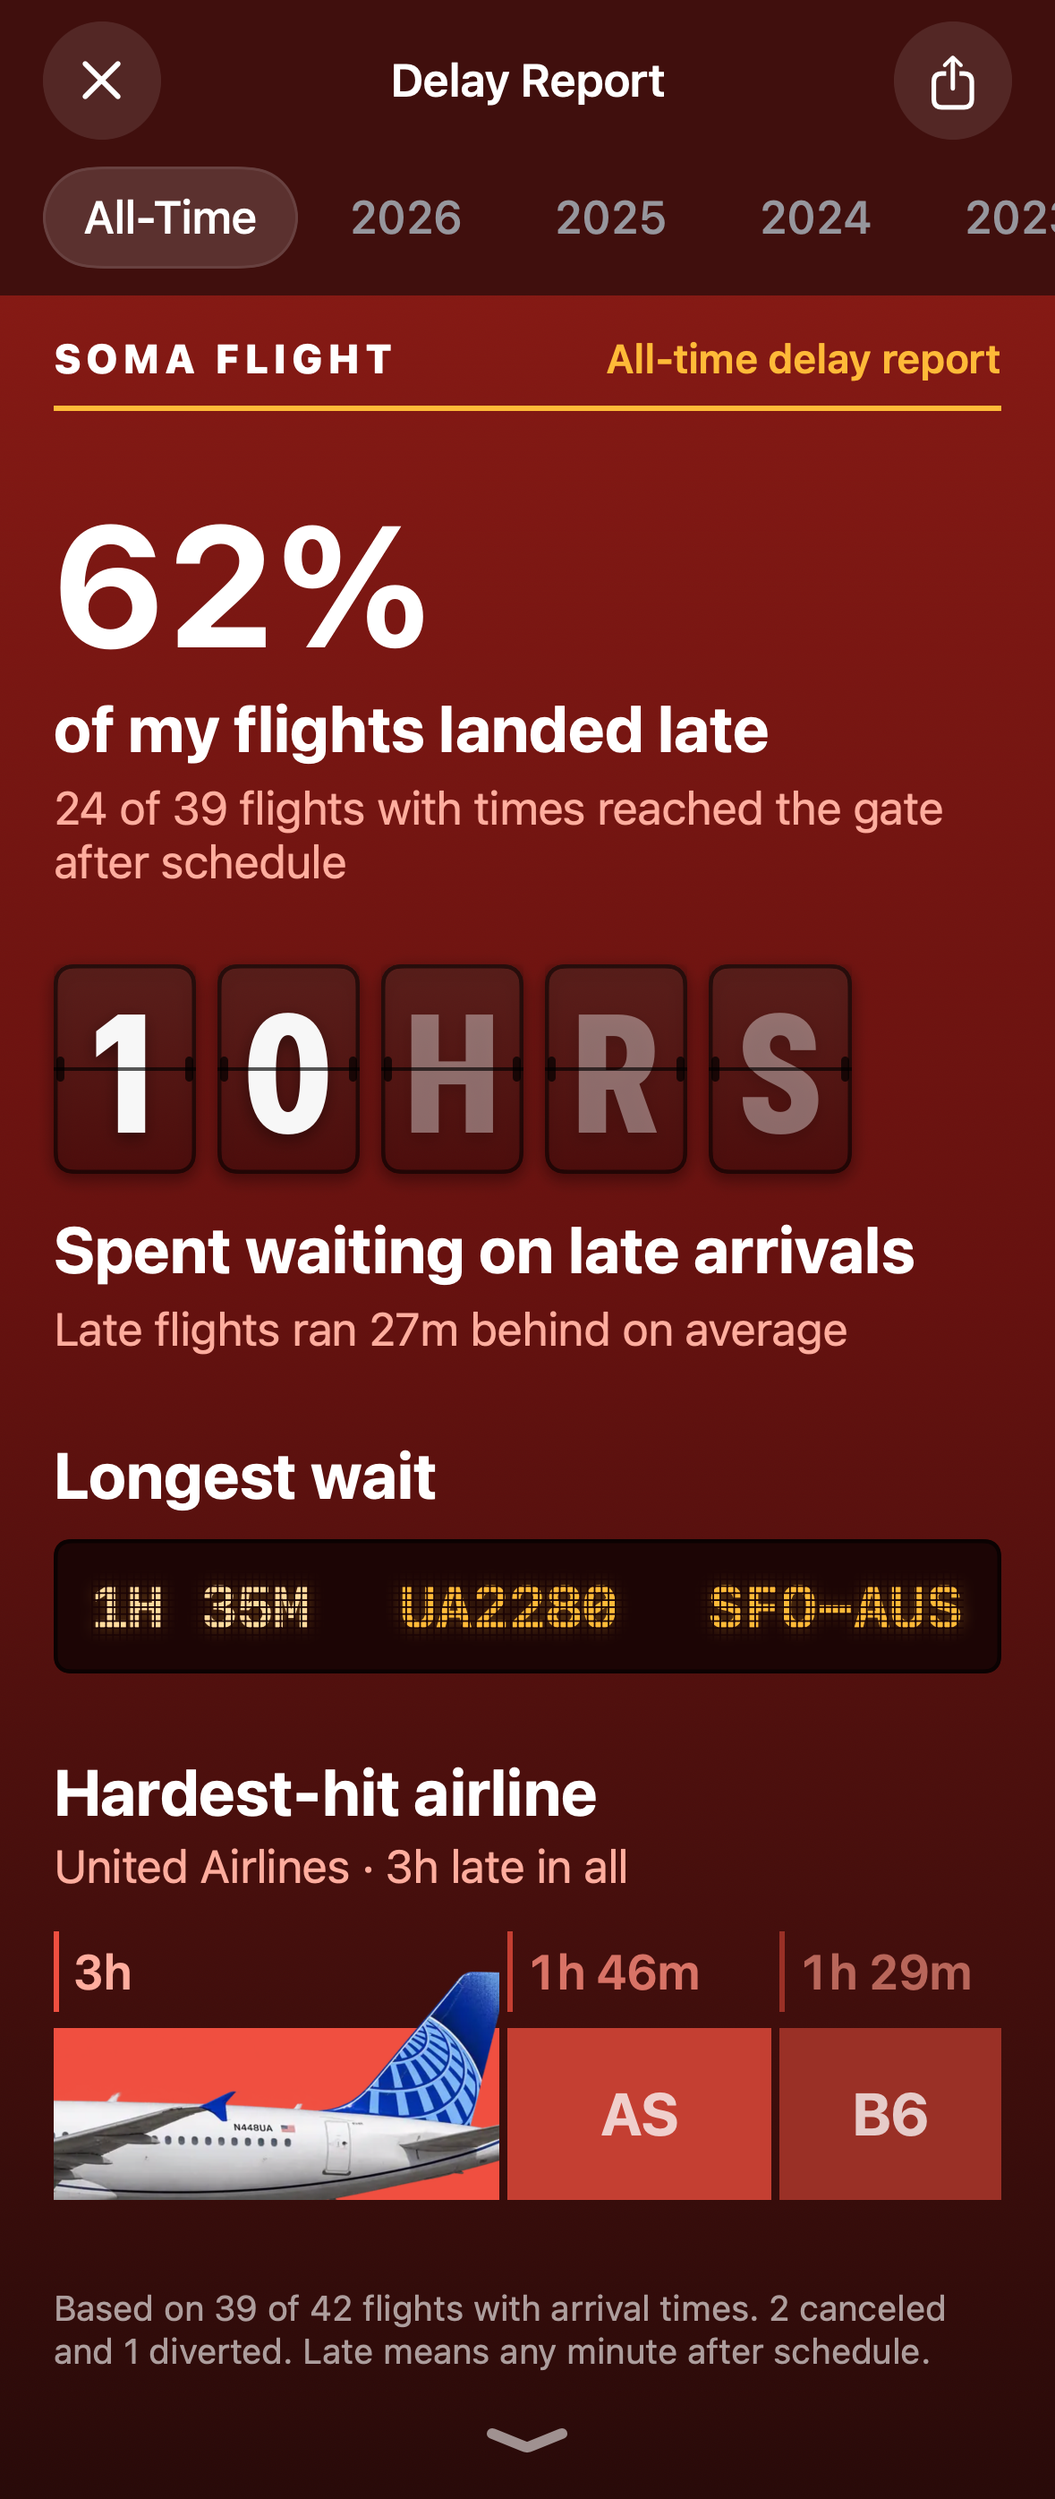
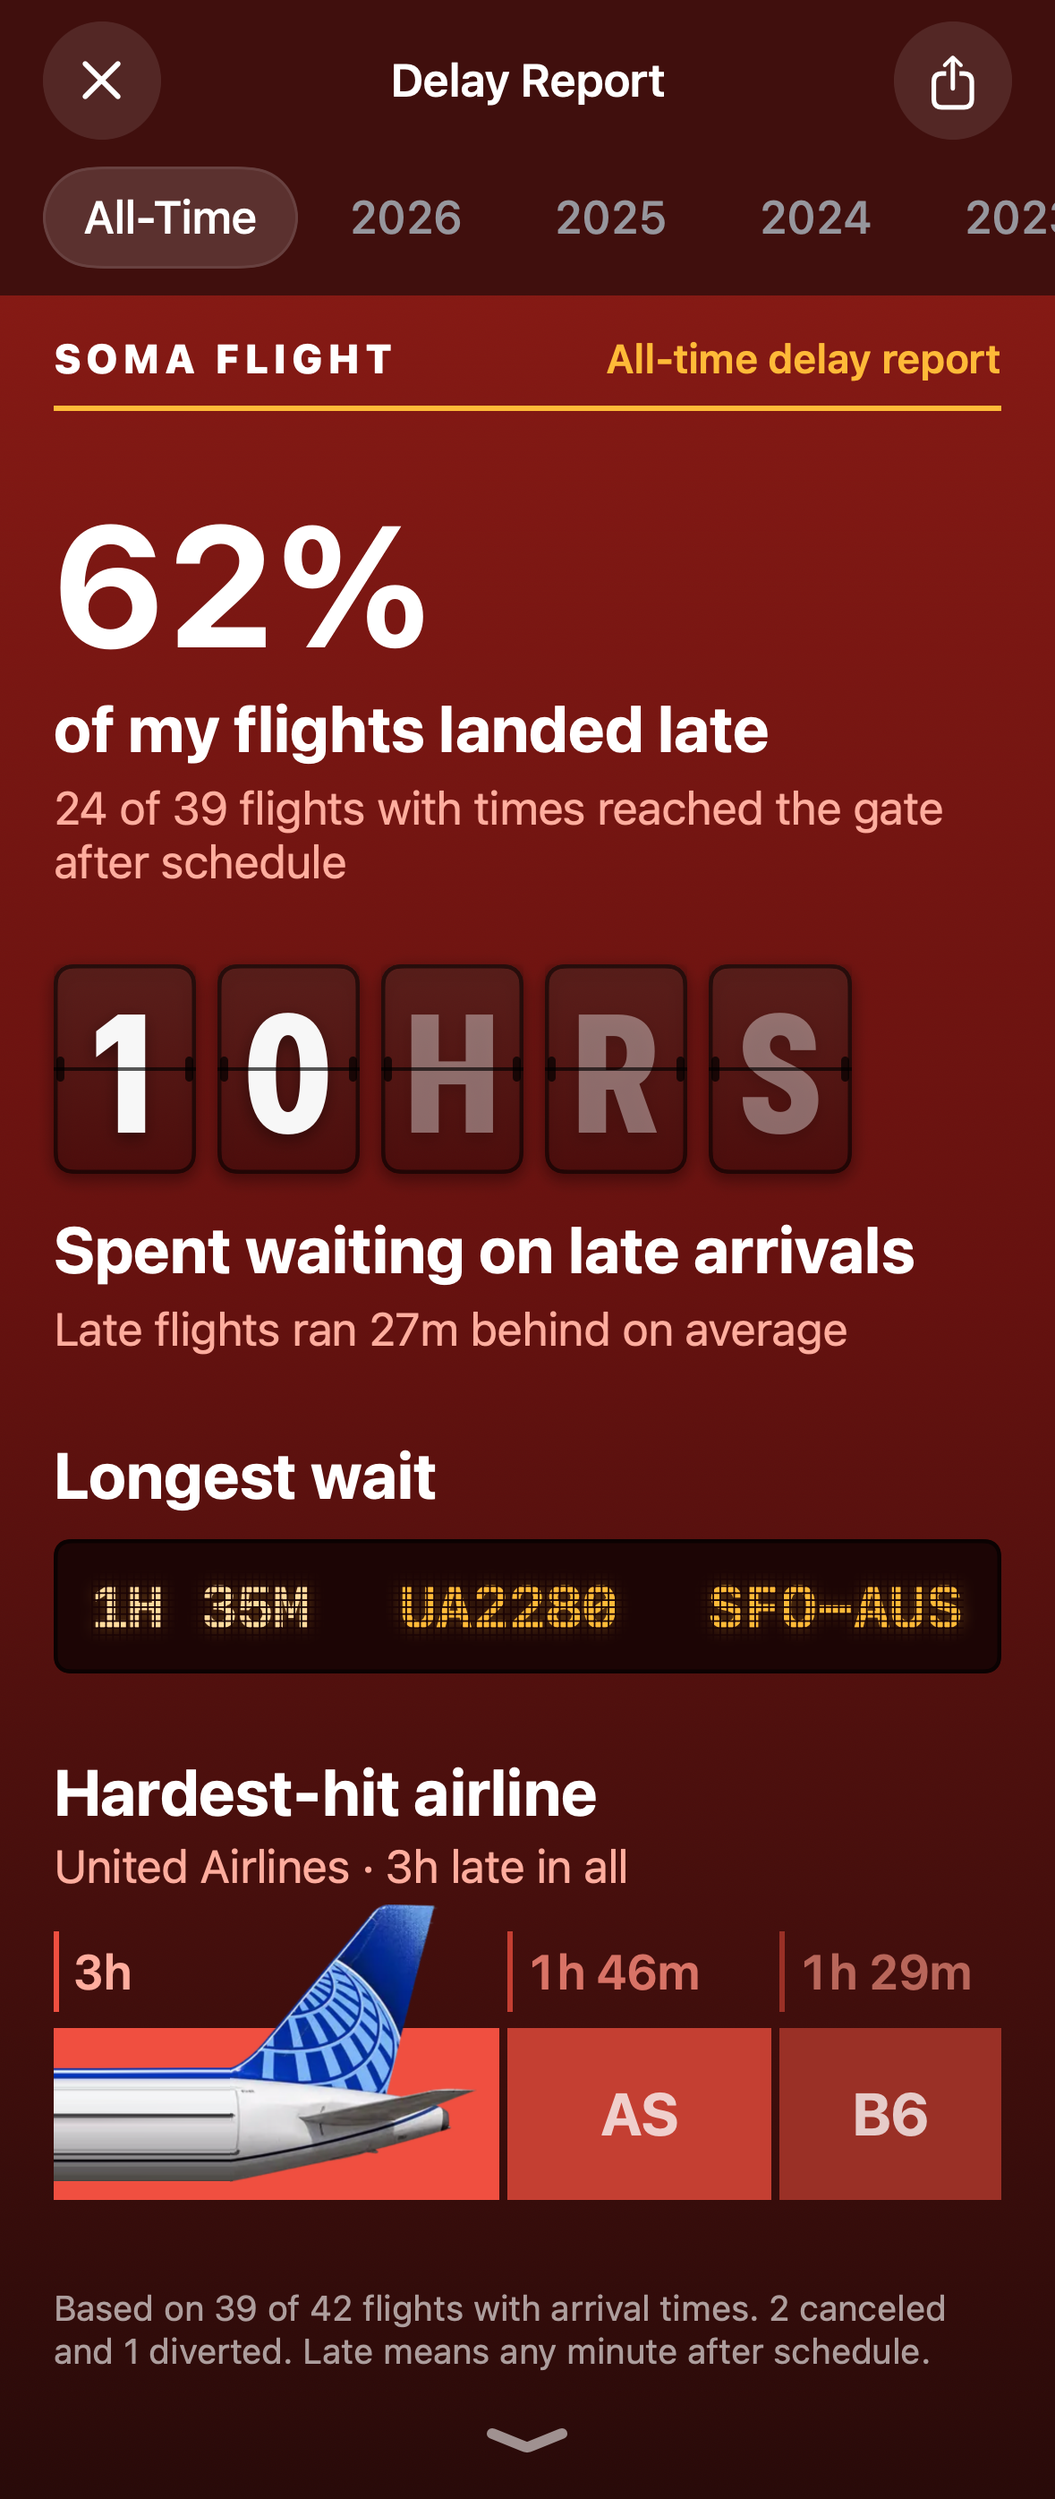
feat(delay): hardest-hit airline shows a clean tail rising out of its bar
The worst airline's block now carries only the tail section of its side view:
cut behind the wing and wing engines (from our geometry, then moved aft past
any winglet or nacelle the picture still shows clear of the fuselage), the
rear fuselage across the block with a hard cut at its left edge, the fin
standing above the top edge, no box around it. Falls back to our drawing in
the airline's livery, then to the airline code.

Adds a tail gallery across families and an Aircraft Stats hero snapshot.

Changed region(s): [[0.0305, 0.7481, 0.4885, 0.904]]

diff --git a/Packages/FlightKit/Sources/FlightKit/UI/Aircraft/AircraftTail.swift b/Packages/FlightKit/Sources/FlightKit/UI/Aircraft/AircraftTail.swift
@@ -1,0 +1,215 @@
+import SwiftUI
+
+/// The tail end of an aircraft's side view: the rear fuselage and the fin, cut just aft of the wing (and of
+/// wing-mounted engines) so no wing shows, on a transparent ground. Cut from the same picture
+/// `AircraftImage` shows: the provider side view when there is one, else our drawing in the airline's
+/// livery.
+struct TailSection: @unchecked Sendable {
+    // CGImage is immutable; it only crosses actors here.
+    var image: CGImage
+    /// The fuselage at the cut (the image's left edge), top and bottom, in pixels from the image top.
+    var barrelTop: CGFloat
+    var barrelBottom: CGFloat
+
+    var width: CGFloat { CGFloat(image.width) }
+    var height: CGFloat { CGFloat(image.height) }
+    var barrelMid: CGFloat { (barrelTop + barrelBottom) / 2 }
+    var barrel: CGFloat { max(1, barrelBottom - barrelTop) }
+
+    /// Where the tail section starts, as a fraction of the nose-to-tail length: just aft of the wing, its
+    /// flap fairings and winglets, and of engines hung under the wing. Engines on the aft fuselage (CRJ)
+    /// stay: they are part of the tail.
+    static func start(type: AircraftType?) -> CGFloat {
+        let g = AircraftGeometry.geometry(type: type)
+        let length = g.lengthM
+        guard length > 0 else { return 0.62 }
+        var aft = 0.0
+        for shape in g.shapes {
+            let box = shape.path.boundingRect
+            guard !box.isNull, box.width.isFinite else { continue }
+            switch shape.part {
+            case .wing, .flapFairing, .winglet:
+                aft = max(aft, box.maxX)
+            case .nacelle, .pylon, .inlet, .fan, .exhaust, .plug, .propeller, .spinner:
+                if box.maxX < length * 0.7 { aft = max(aft, box.maxX) }
+            default:
+                break
+            }
+        }
+        // A provider's picture is not our drawing to the metre: keep a margin behind the wing.
+        return min(max(aft / length + 0.05, 0.55), 0.78)
+    }
+
+    /// The section of `full` (nose left, nose tip at x = 0, tail tip at the right edge) from `start` of
+    /// its width aft, cut to its pixels; nil when nothing is left.
+    static func cut(_ full: CGImage, start: CGFloat) -> TailSection? {
+        let w = full.width, h = full.height
+        let x0 = min(max(0, Int((CGFloat(w) * start).rounded())), w - 2)
+        let cw = w - x0
+        guard cw > 1, h > 1, let space = CGColorSpace(name: CGColorSpace.sRGB) else { return nil }
+        var alpha = [UInt8](repeating: 0, count: cw * h * 4)
+        let drawn: Bool = alpha.withUnsafeMutableBytes { buffer in
+            guard let ctx = CGContext(data: buffer.baseAddress, width: cw, height: h, bitsPerComponent: 8,
+                                      bytesPerRow: cw * 4, space: space,
+                                      bitmapInfo: CGImageAlphaInfo.premultipliedLast.rawValue) else { return false }
+            ctx.draw(full, in: CGRect(x: -x0, y: 0, width: w, height: h))
+            return true
+        }
+        guard drawn else { return nil }
+        func a(_ x: Int, _ y: Int) -> UInt8 { alpha[(y * cw + x) * 4 + 3] }
+        // A picture is not our drawing to the metre: a winglet tip or a nacelle can still stand clear of the
+        // fuselage in the section's front part. Move the cut aft of the last column there that crosses
+        // more than one solid run, keeping at least a fifth of the length.
+        func runs(_ x: Int) -> Int {
+            var count = 0, length = 0
+            for y in 0..<h {
+                if a(x, y) > 128 { length += 1 } else { if length >= 3 { count += 1 }; length = 0 }
+            }
+            return count + (length >= 3 ? 1 : 0)
+        }
+        let latest = min(Int(CGFloat(cw) * 0.45), max(0, cw - w / 5))
+        var lead = 0
+        for x in 0..<max(0, latest) where runs(x) > 1 { lead = x + max(2, w / 80) }
+        lead = min(lead, max(0, latest))
+        // The box of the section's pixels from the cut on (rows top down).
+        var minY = h, maxY = -1, maxX = -1
+        for y in 0..<h {
+            for x in lead..<cw where a(x, y) > 5 {
+                minY = min(minY, y); maxY = max(maxY, y); maxX = max(maxX, x)
+            }
+        }
+        guard maxY > minY, maxX > lead else { return nil }
+        // The fuselage at the cut: the longest opaque run down a column just inside the edge.
+        let column = min(lead + 2, maxX)
+        var best = (start: -1, end: -1), run = -1
+        for y in minY...maxY {
+            if a(column, y) > 128 {
+                if run < 0 { run = y }
+                if y - run > best.end - best.start { best = (run, y) }
+            } else {
+                run = -1
+            }
+        }
+        guard best.start >= 0,
+              let image = full.cropping(to: CGRect(x: x0 + lead, y: minY, width: maxX - lead + 1, height: maxY - minY + 1))
+        else { return nil }
+        return TailSection(image: image, barrelTop: CGFloat(best.start - minY), barrelBottom: CGFloat(best.end - minY + 1))
+    }
+
+    /// How the section sits in a block of `size`: scale (points per pixel) and its top-left corner, with
+    /// the fuselage across the block, the fin rising at most `rise` above its top and the tail tip `inset`
+    /// short of its right edge. `barrelShare` is the fuselage's part of the block's height.
+    static func layout(_ section: TailSection, in size: CGSize, rise: CGFloat, inset: CGFloat,
+                       barrelShare: CGFloat = 0.5, barrelCentre: CGFloat = 0.56) -> (scale: CGFloat, origin: CGPoint) {
+        let centre = size.height * barrelCentre
+        // As large as the fuselage share asks, and wide enough to reach the block's left edge.
+        var scale = max(barrelShare * size.height / section.barrel, (size.width - inset) / section.width)
+        // No taller than the block takes for the fuselage, the room above for the fin, and the block's floor.
+        scale = min(scale, 0.74 * size.height / section.barrel)
+        scale = min(scale, (rise + centre) / max(1, section.barrelMid))
+        scale = min(scale, (size.height - centre - 2) / max(1, section.height - section.barrelMid))
+        let origin = CGPoint(x: size.width - inset - section.width * scale, y: centre - section.barrelMid * scale)
+        return (scale, origin)
+    }
+}
+
+/// Tail sections cut so far, by side view key or drawing key.
+@MainActor
+enum TailSectionMemo {
+    private static var held: [String: TailSection] = [:]
+
+    static func section(_ key: String, _ make: () -> TailSection?) -> TailSection? {
+        if let section = held[key] { return section }
+        guard let section = make() else { return nil }
+        if held.count > 64 { held = [:] }
+        held[key] = section
+        return section
+    }
+}
+
+/// An aircraft's tail rising out of a block: the rear fuselage runs across the block, cut hard at its left
+/// edge and floor, and the fin stands above its top edge, up to `rise`. Nose left, so the fin is on the
+/// right. The block itself (its colour) is the caller's; this view draws only the aircraft, clear around it.
+struct AircraftTail: View {
+    var type: AircraftType?
+    var airline: Airline?
+    /// How far the fin may stand above the block.
+    var rise: CGFloat
+    @Environment(\.brandAssets) private var service
+    @Environment(\.reference) private var reference
+    @Environment(\.displayScale) private var displayScale
+    @State private var revision = 0
+
+    var body: some View {
+        let _ = revision
+        GeometryReader { geo in
+            if let section = section {
+                let inset = min(14, geo.size.width * 0.05)
+                let fit = TailSection.layout(section, in: geo.size, rise: rise, inset: inset)
+                let w = section.width * fit.scale, h = section.height * fit.scale
+                ZStack(alignment: .topLeading) {
+                    // A bar wider than the section: carry the barrel on to the block's left edge.
+                    if fit.origin.x > 0, let strip = section.image.cropping(
+                        to: CGRect(x: 1, y: section.barrelTop, width: 2, height: section.barrel)) {
+                        Image(decorative: strip, scale: 1)
+                            .resizable()
+                            .frame(width: fit.origin.x + 1, height: section.barrel * fit.scale)
+                            .offset(y: fit.origin.y + section.barrelTop * fit.scale)
+                    }
+                    Image(decorative: section.image, scale: 1)
+                        .resizable()
+                        .interpolation(.high)
+                        .frame(width: w, height: h)
+                        .offset(x: fit.origin.x, y: fit.origin.y)
+                }
+                .frame(width: geo.size.width, height: geo.size.height, alignment: .topLeading)
+                // Hard edges at the block's left, right and floor; open above for the fin.
+                .mask(alignment: .bottom) {
+                    Rectangle().frame(width: geo.size.width, height: geo.size.height + rise + 4)
+                }
+            }
+        }
+        .accessibilityElement()
+        .accessibilityLabel(AircraftImage.label(airline: airline, type: type))
+        .accessibilityAddTraits(.isImage)
+        .task(id: airline?.id ?? "") {
+            guard let airline else { return }
+            let before = AircraftArtMemo.shared.art(AircraftArtMemo.finKey(airline.id))?.version
+            let after = await FinArt.load(icao: airline.id, service: service)
+            if after?.version != before { revision += 1 }
+        }
+        .task(id: sideKey) {
+            guard let airline, sideKey != nil else { return }
+            let before = sideKey.flatMap { AircraftArtMemo.shared.art($0) }?.version
+            let after = await AircraftImage.load(airline: airline, type: type, service: service)
+            if after?.version != before { revision += 1 }
+        }
+    }
+
+    private var sideKey: String? {
+        guard let airline, let type, !type.id.isEmpty else { return nil }
+        return AircraftArtMemo.sideKey(airline.id, type.id)
+    }
+
+    /// The provider side view's tail when there is one, else our drawing's.
+    private var section: TailSection? {
+        let start = TailSection.start(type: type)
+        if let key = sideKey, let art = AircraftArtMemo.shared.art(key) {
+            return TailSectionMemo.section("\(key)/\(art.version)") { TailSection.cut(art.image, start: start) }
+        }
+        let fin = airline.flatMap { AircraftArtMemo.shared.art(AircraftArtMemo.finKey($0.id)) }
+        let livery = airline.map { reference.livery($0.id) } ?? .plain
+        let key = "drawn/\(livery.hashValue)/\(AircraftGeometry.cacheKey(type))/\(fin?.version ?? "-")"
+        return TailSectionMemo.section(key) {
+            // Drawn large enough that the tail is sharp in a full-width block.
+            let height: CGFloat = 420
+            let size = CGSize(width: height * AircraftSideView.aspect(type: type), height: height)
+            let canvas = AircraftCanvas(geometry: AircraftGeometry.geometry(type: type), livery: livery, style: .livery,
+                                        gearDown: false, finArt: fin)
+                .frame(width: size.width, height: size.height)
+            let renderer = ImageRenderer(content: canvas)
+            renderer.scale = 1
+            return renderer.cgImage.flatMap { TailSection.cut($0, start: start) }
+        }
+    }
+}

diff --git a/Packages/FlightKit/Tests/FlightKitTests/DelayReportSnapshotTests.swift b/Packages/FlightKit/Tests/FlightKitTests/DelayReportSnapshotTests.swift
@@ -42,6 +42,63 @@ extension ComponentSnapshotTests {
         }
     }
 
+    /// The hardest-hit tail across the families (narrow and wide bodies, tail-engined jets, props, our own
+    /// drawing for a pair without a side view), in a bar as narrow as three airlines leave it and as wide as
+    /// one alone, in docs/screens/components/AircraftTail.png.
+    ///
+    ///     SNAPSHOTS=1 swift test --package-path Packages/FlightKit --filter aircraftTailGallery
+    @Test func aircraftTailGallery() async throws {
+        let service = BundledSideViews(over: FakeBrandAssetService())
+        let reference = ReferenceData.bundled()
+        let pairs = ["UAL-B789", "UAL-B38M", "AAL-A321", "AFR-A359", "AAL-B77W", "ANA-A388", "DLH-B748",
+                     "ANE-CRJ9", "ANE-AT72", "ANA-DH8D", "AAL-E75L", "DAL-BCS3", "DLH-A320", "UAL-B752"]
+        let resolved = pairs.map { pair -> (Airline?, AircraftType?) in
+            let parts = pair.split(separator: "-").map(String.init)
+            return (reference.airline(parts[0]), reference.type(parts[1]))
+        }
+        await AircraftImage.preload(resolved.map { (airline: $0.0, type: $0.1) }, service: service)
+        try render("AircraftTail") {
+            VStack(alignment: .leading, spacing: 10) {
+                ForEach(Array(resolved.enumerated()), id: \.offset) { i, pair in
+                    HStack(alignment: .bottom, spacing: 12) {
+                        tailBlock(pair.0, pair.1, width: 166)
+                        tailBlock(pair.0, pair.1, width: 190)
+                    }
+                    Text(pairs[i]).font(.caption).foregroundStyle(.white.opacity(0.6))
+                }
+                tailBlock(reference.airline("UAL"), reference.type("B789"), width: 361)
+                tailBlock(reference.airline("AFR"), reference.type("A359"), width: 361)
+            }
+            .padding(16)
+            .background(DelayInk.page)
+            .environment(\.brandAssets, service)
+        }
+    }
+
+    /// The Aircraft Stats hero (totals and the most flown type's side view on the light blue page), to check
+    /// the side view sits on the page with no box around it, in docs/screens/components/AircraftStatsHero.png.
+    @Test func aircraftStatsHero() async throws {
+        let store = PassportStore(history: FakeHistoryService())
+        await store.load()
+        let service = BundledSideViews(over: FakeBrandAssetService())
+        await AircraftImage.preload([(airline: store.mostFlownAirline, type: store.mostFlownType)], service: service)
+        try render("AircraftStatsHero", light: true) {
+            AircraftTotalsPanel(stats: store.aircraft, mostFlownType: store.mostFlownType,
+                                mostFlownAirline: store.mostFlownAirline)
+                .background(LinearGradient(gradient: Theme.aircraftPage, startPoint: .top, endPoint: .bottom))
+                .environment(\.brandAssets, service)
+        }
+    }
+
+    private func tailBlock(_ airline: Airline?, _ type: AircraftType?, width: CGFloat) -> some View {
+        ZStack(alignment: .bottom) {
+            Rectangle().fill(DelayInk.late)
+            AircraftTail(type: type, airline: airline, rise: AirlineLossBar.rise)
+        }
+        .frame(width: width, height: 64)
+        .padding(.top, AirlineLossBar.rise)
+    }
+
     private var topBar: some View {
         ZStack {
             Text("Delay Report").scaledFont(17, weight: .semibold).foregroundStyle(.white)

diff --git a/Packages/FlightKit/Sources/FlightKit/UI/Screens/Passport/DelayReportParts.swift b/Packages/FlightKit/Sources/FlightKit/UI/Screens/Passport/DelayReportParts.swift
@@ -155,7 +155,7 @@ struct LEDStrip: View {
 // MARK: - Worst airline bar
 
 /// The airlines that lost the most time, side by side, each as wide as its share of the late minutes. The
-/// first carries our own side view of its most delayed type, cut to the tail; the others their code.
+/// first carries the tail of its most delayed type rising out of the block; the others their code.
 struct AirlineLossBar: View {
     var losses: [DelayReport.AirlineLoss]
     @Environment(\.reference) private var reference
@@ -211,8 +211,9 @@ struct AirlineLossBar: View {
             }
             ZStack(alignment: .bottom) {
                 Rectangle().fill(fill)
-                if i == 0 {
-                    tail(part.key, width: width)
+                if i == 0, let airline = reference.airline(part.key) {
+                    AircraftTail(type: losses.first { $0.key == part.key }?.type.flatMap { reference.type($0) },
+                                 airline: airline, rise: Self.rise)
                 } else {
                     Text(part.label)
                         .scaledFont(22, weight: .bold)
@@ -228,19 +229,8 @@ struct AirlineLossBar: View {
         .frame(width: width, alignment: .leading)
     }
 
-    /// Our side view of the airline's most delayed type, its tail end in the block.
-    private func tail(_ key: String, width: CGFloat) -> some View {
-        let airline = reference.airline(key)
-        let type = losses.first { $0.key == key }?.type.flatMap { reference.type($0) }
-        // Taller than the block: the fuselage sits in it and the fin rises above, cut at the sides only.
-        let h = block * 1.55
-        return AircraftImage(type: type, airline: airline, height: h)
-            .fixedSize()
-            .offset(x: width * 0.10, y: block * 0.22)
-            .frame(width: width, height: h, alignment: .bottomTrailing)
-            .clipped()
-            .frame(width: width, height: block, alignment: .bottom)
-    }
+    /// How far the worst airline's fin may stand above its block, into the room beside the figure.
+    static let rise: CGFloat = 46
 
     private func code(_ key: String) -> String { reference.airline(key)?.iata ?? key }
     private func name(_ key: String) -> String {
